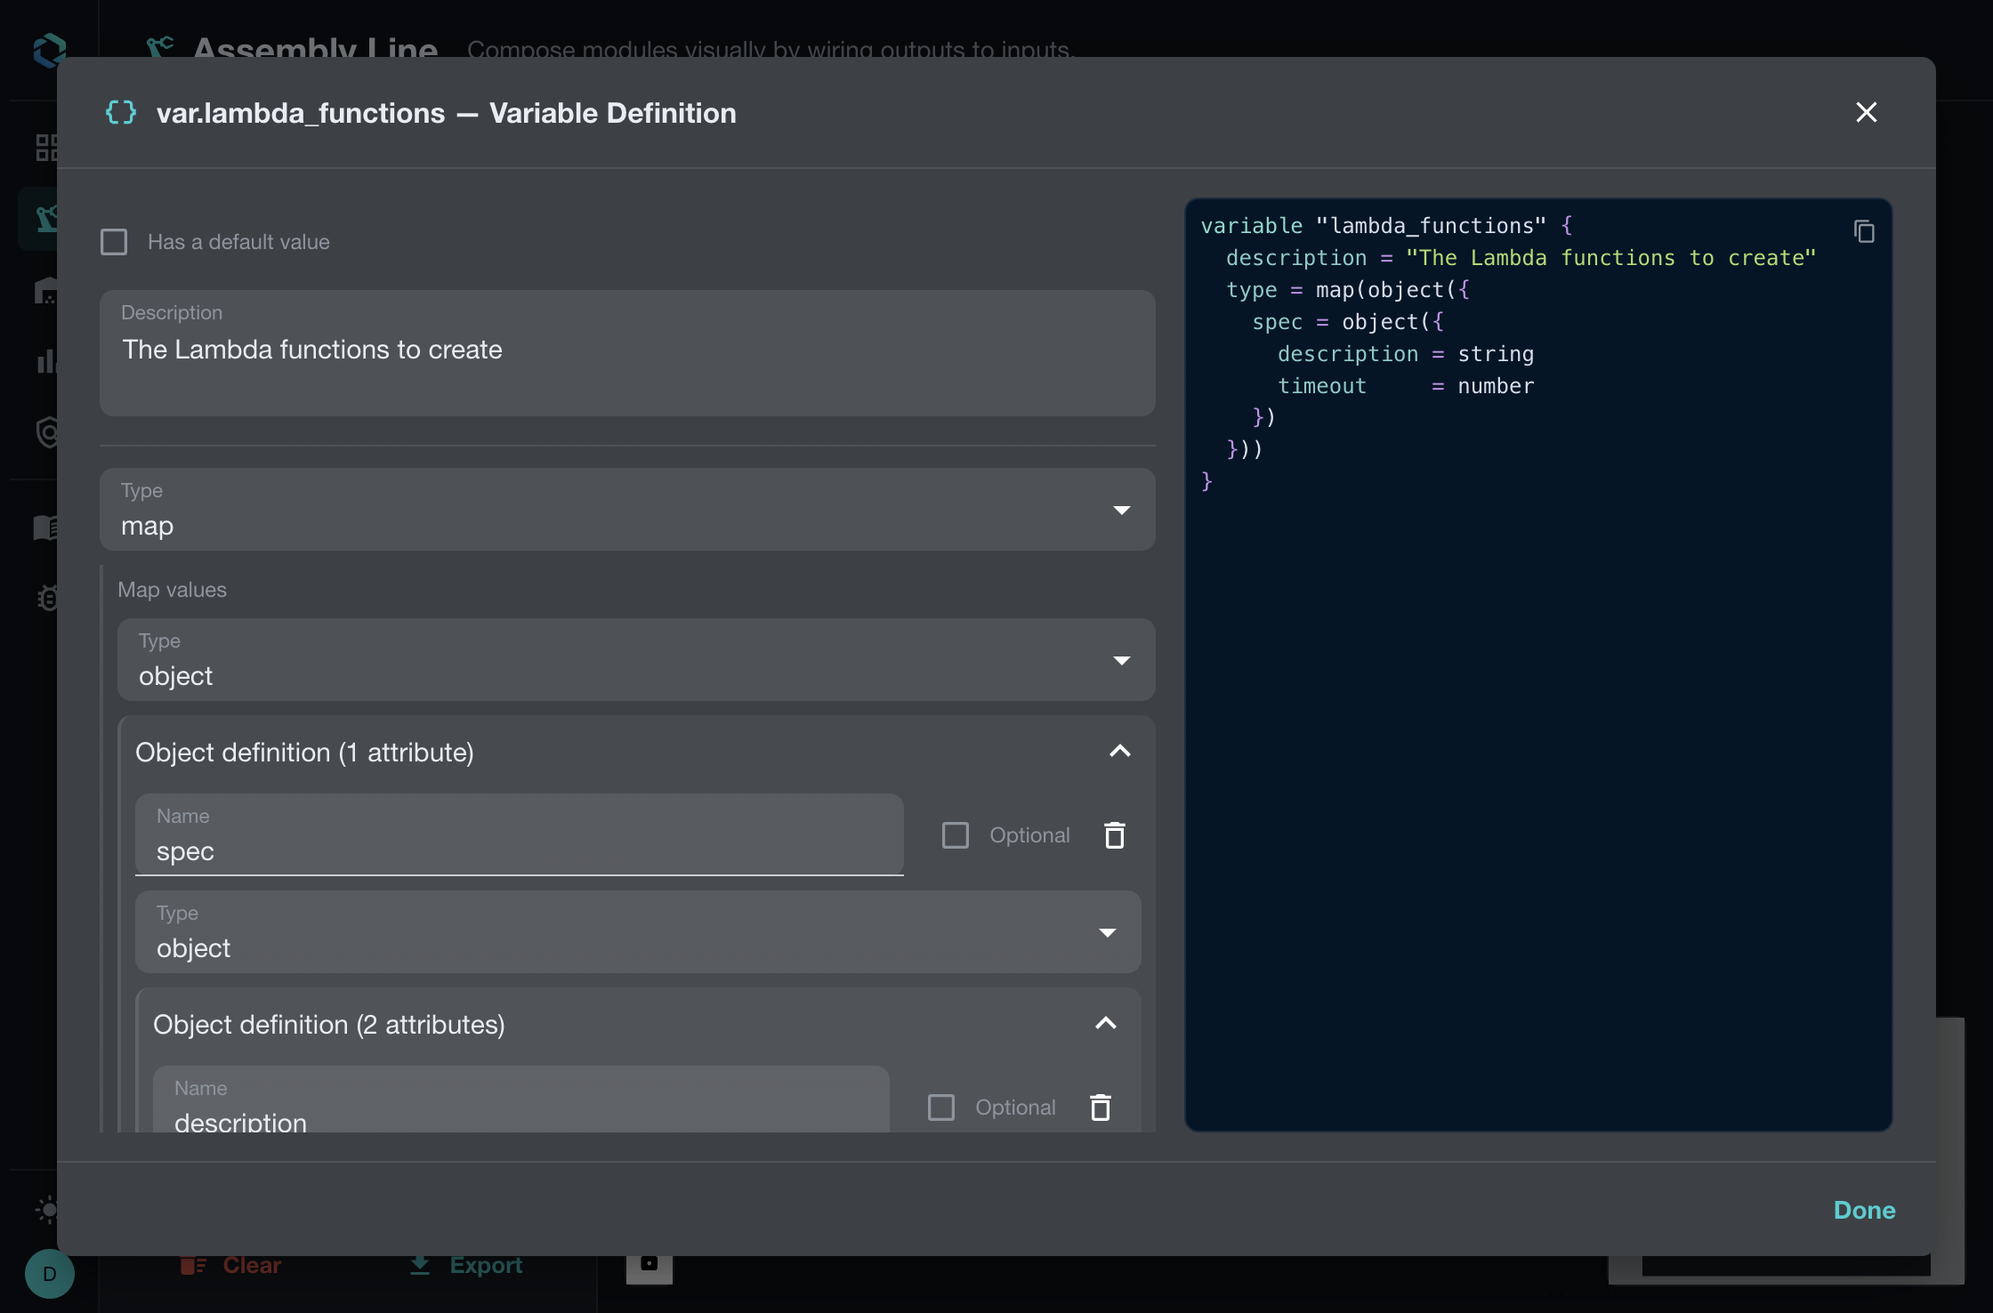
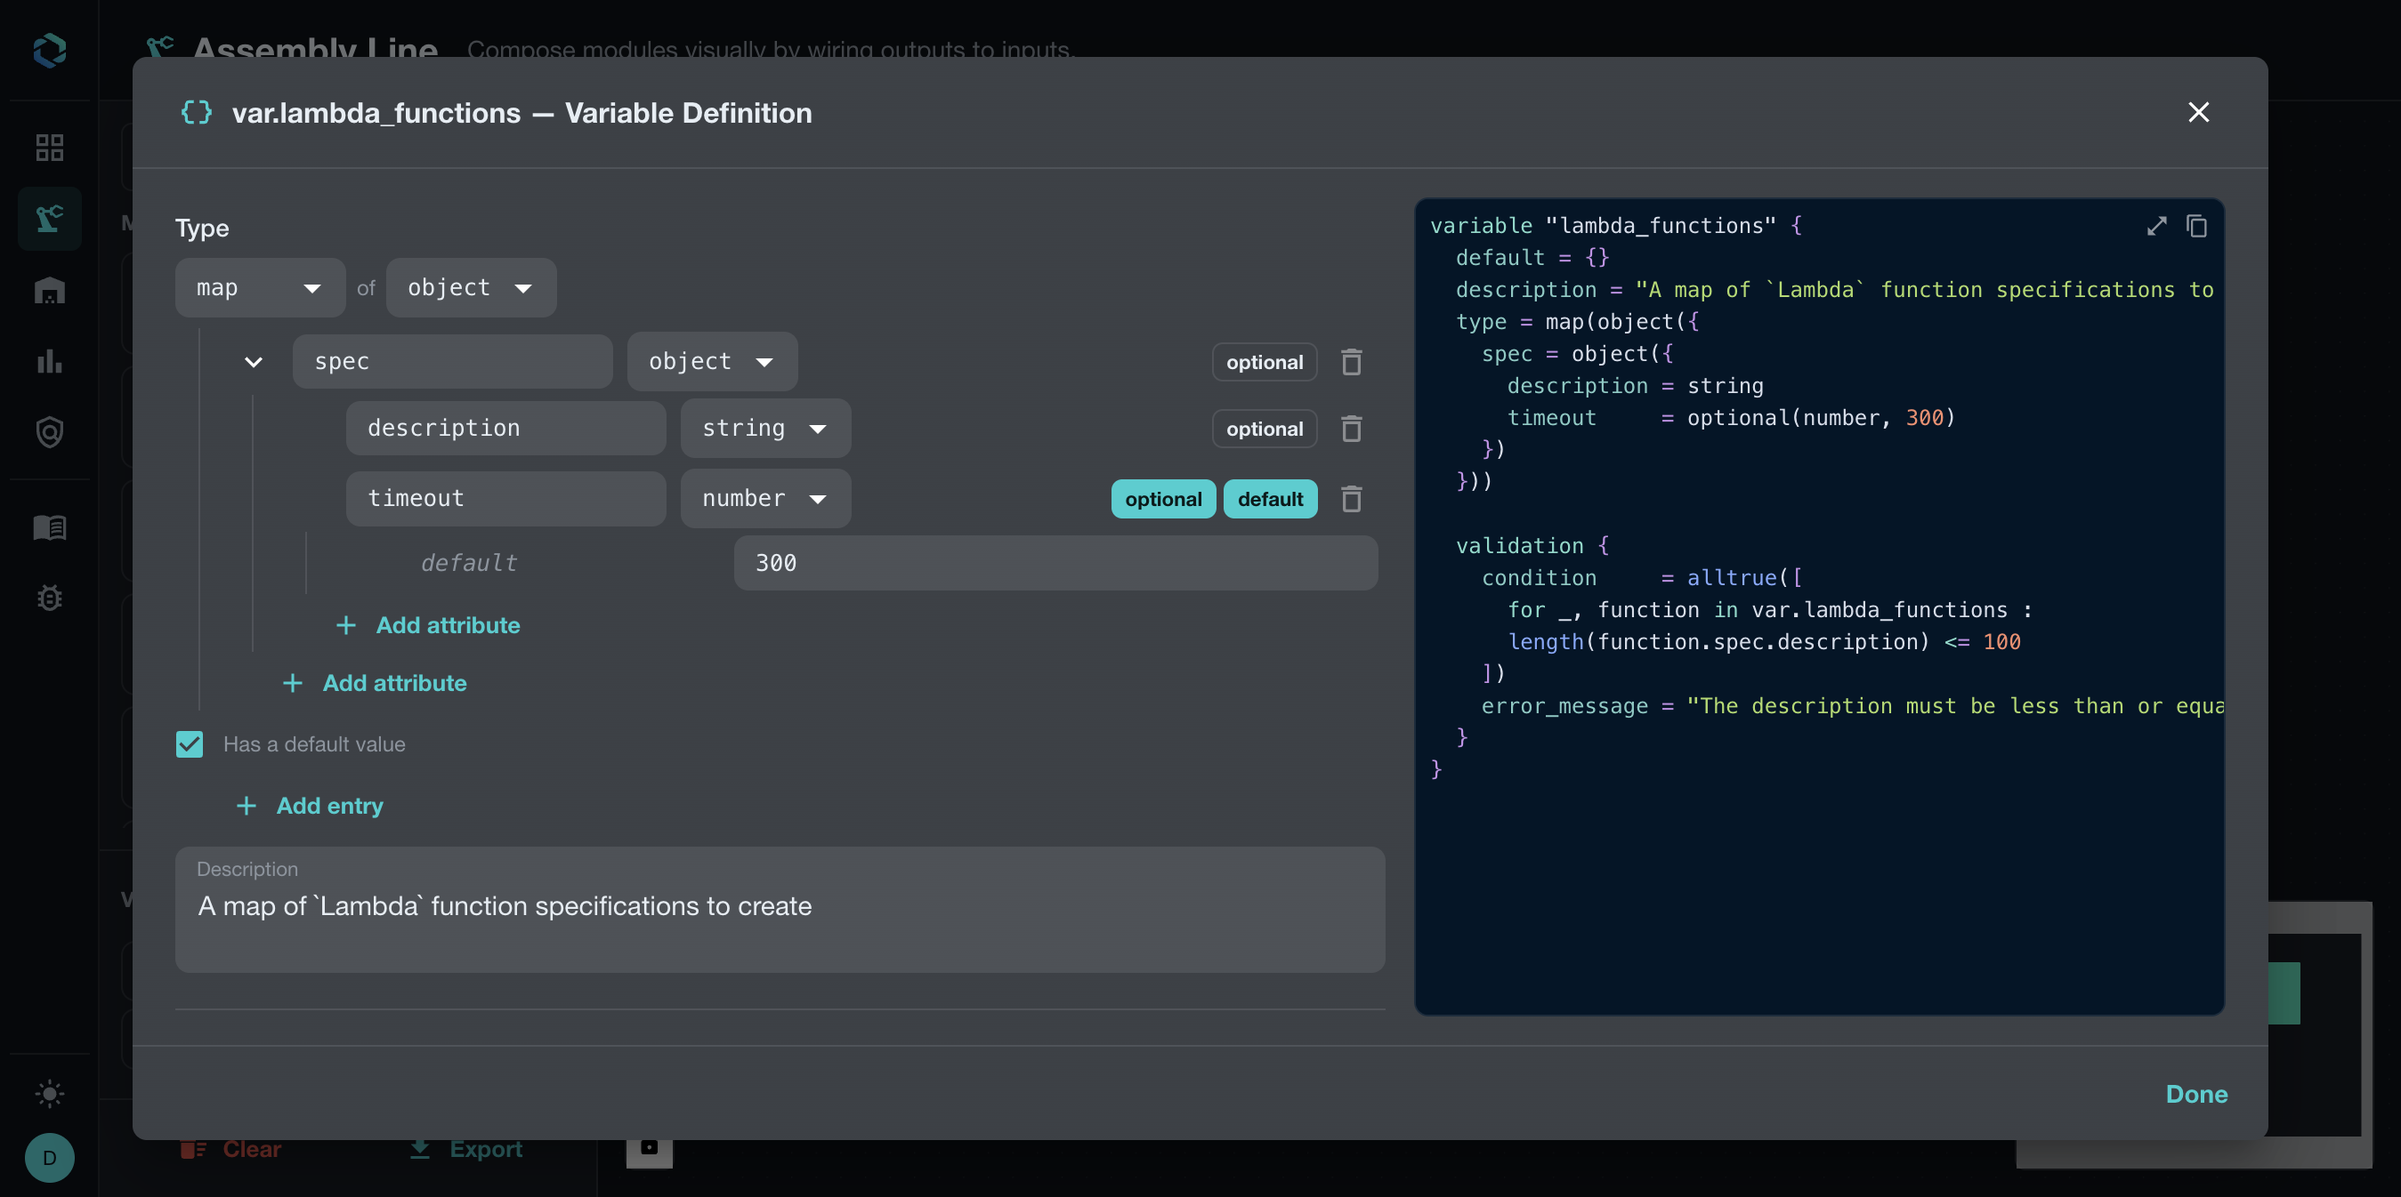
docs: document Assembly Line UI workflows

diff --git a/docs/guides/assembly-line.md b/docs/guides/assembly-line.md
@@ -40,11 +40,11 @@ Building a canvas node requires the underlying module or provider version to alr
 ## Define Complex Variables
 
 Variables are first-class canvas nodes. Open **Type** on a variable to choose a
-primitive, collection, tuple, or object type. For nested objects, add attributes
-and mark them optional as needed. Assembly Line shows the equivalent OpenTofu
-declaration as you build it.
+primitive, collection, tuple, or object type. Add nested object attributes and
+set optional or default values in the type editor. Its syntax-highlighted HCL
+preview shows the equivalent OpenTofu declaration as you build the type.
 
-![Assembly Line variable definition for var.lambda_functions showing a map of objects and generated OpenTofu](../img/assembly-line-variable-current.png)
+![Assembly Line variable editor showing nested map and object types beside the generated HCL preview](../img/assembly-line-variable-current.png)
 
 This example defines a map whose values contain a nested `spec` object with
 `description` and `timeout` attributes. That shape is useful for `for_each`
@@ -54,34 +54,59 @@ instance's configuration.
 ### Validate Variable Values
 
 Add one or more validations to reject invalid input before the generated root
-module is used. Each validation has two parts:
+module is used. Enter each condition as an HCL expression; syntax highlighting
+distinguishes functions, variables, and nested attributes while you edit. Each
+validation has two parts:
 
 - A condition written as an HCL expression, such as `length(var.spec.description) > 100`.
 - An error message that explains how to correct the value.
 
-The condition can reference the variable and its nested attributes. Assembly
-Line includes the validation in the generated OpenTofu declaration, so the
-constraint travels with the exported `variables.tf` file.
+The condition can reference the variable and its nested attributes. The HCL
+preview renders the validation block in the generated OpenTofu declaration, so
+the constraint travels with the exported `variables.tf` file.
 
-![Assembly Line variable validation condition and error message](../img/assembly-line-variable-validations.png)
+![Assembly Line validation editor with a syntax-highlighted condition and error message](../img/assembly-line-variable-validations.png)
 
-![Generated OpenTofu validation block for var.lambda_functions](../img/assembly-line-variable-generated-code.png)
+![Expanded HCL preview for var.lambda_functions showing its nested type and validation block](../img/assembly-line-variable-generated-code.png)
 
 ## Configure Module Inputs
 
-Select **Inputs** on a module node to open its typed input form. The form shows
-required inputs, accepted types, current values, and nested collection or object
-fields. Use the search box and pagination controls when a module exposes many
-inputs.
+Select **Inputs** on a module node to open its typed input form. Compact rows
+show each input's required or optional status, accepted type, and value
+controls. Collection entries are grouped under their input, and the generated
+module HCL remains visible beside the form. Use the search box and pagination
+controls when a module exposes many inputs.
 
-![Assembly Line module input form showing required values, each.key selectors, and module output references](../img/assembly-line-module-inputs-current.png)
+![Compact Assembly Line module input form with typed fields and a generated HCL preview](../img/assembly-line-module-inputs-current.png)
+
+Enter literal values or HCL expressions in the value fields. Expressions are
+syntax highlighted. When a field contains a supported OpenTofu function, the
+editor displays a short function description and a link to the OpenTofu
+documentation beneath the field.
+
+![Assembly Line HCL expression field showing the replace function hint and OpenTofu documentation link](../img/assembly-line-hcl-expression-functions.png)
 
 Values can come from several places:
 
 - A literal value entered in the form.
-- A root variable such as `var.aws_account_id`.
-- A module output such as `module.ecr.repo_arn`.
-- A repeated value such as `each.key` or `each.value.name`.
+- A root variable such as `var.account_id`.
+- A module output such as `module.ecr.repo_url`.
+- A repeated value such as `each.key` or `each.value.spec.description`.
+
+![The Use input menu lists root variables and module outputs available to a module input](../img/assembly-line-input-value-sources.png)
+
+Enter literal values directly in an input field. To reference a root variable or
+module output, choose **Use input** and select a source from the menu. When a
+source is repeated or contains a collection, the form provides instance
+selectors and key or index controls.
+
+![Module inputs showing a literal value, repeated instance selectors, and selected module outputs](../img/assembly-line-input-repeated-values.png)
+
+Repeated modules can also use `each.key` and `each.value` in HCL expression
+fields. For example, this description input reads a nested value from the
+current `for_each` object:
+
+![Module description input using the each.value.spec.description expression](../img/assembly-line-input-each-value.png)
 
 For a variable map or collection reference, choose **One instance** and enter
 the index or key expression to select one entry. When the selected entry is an
@@ -96,6 +121,10 @@ Leave the descendant selection at **Whole value** to reference the complete
 entry. Choosing **All instances** clears the descendant selection and passes
 the full collection. Type compatibility checks use the selected entry or
 projected property type.
+
+![One instance of var.lambda_functions selected with each.key and the descendant set to Whole value](../img/assembly-line-variable-whole-value.png)
+
+![All instances selected for var.lambda_functions with no descendant selector](../img/assembly-line-variable-all-instances.png)
 
 The form keeps the expression visible on the canvas, so you can review how
 each module is connected without opening every field. Defaults owned by the
@@ -177,11 +206,14 @@ A module's provider selector lists only provider nodes whose upstream identity m
 Multiple configurations of one provider share one `required_providers` entry. Give additional configurations an alias, then bind each module-local provider name to the appropriate root configuration.
 
 Select **Configuration** on a provider node to configure provider arguments from
-the extracted schema. Optional attributes are clearly marked, and nested blocks
-such as `assume_role` can be added only when needed. The provider form supports
-the same typed expression references as module inputs.
+the extracted schema. The paginated form marks optional attributes and shows
+complex attribute types, such as `map(string)`, alongside their value controls.
+Add or remove nested blocks such as `assume_role` and configure their fields
+inline. A provider-specific HCL preview shows the provider configuration as it
+is assembled. Provider values support the same typed expression references as
+module inputs.
 
-![Assembly Line provider configuration form showing optional attributes and nested blocks](../img/assembly-line-provider-configuration.png)
+![Assembly Line provider configuration form showing nested blocks, complex attribute types, and its HCL preview](../img/assembly-line-provider-configuration.png)
 
 Provider configuration belongs on the root provider node. Modules then select
 the matching provider configuration through their **Providers** panel, keeping

diff --git a/.github/skills/ui-screenshot-documentation/SKILL.md b/.github/skills/ui-screenshot-documentation/SKILL.md
@@ -1,0 +1,43 @@
+---
+name: ui-screenshot-documentation
+description: "Use when capturing, retaking, cropping, or documenting screenshots of any OpenDepot UI; updating documentation with UI images; or reviewing UI screenshots for focus, accuracy, and readability. Triggers: 'take a screenshot', 'capture the UI', 'retake this screenshot', 'document this screen', 'update the docs screenshots', 'replace a UI image'."
+argument-hint: "UI screen or feature to capture and document"
+---
+
+# UI Screenshot Documentation
+
+Use this skill for UI screenshot and documentation work anywhere in OpenDepot. It is not tied to a particular feature, route, or service. Discover the relevant screen, documentation location, and existing asset conventions for each task.
+
+## Before capturing
+
+- Identify the specific UI detail each requested image should explain. Review nearby documentation and existing screenshots so the capture fits the guide and avoids unnecessary repetition.
+- For every user-visible feature or workflow described in prose that has functional UI controls, include a nearby screenshot showing the relevant control and, where applicable, a representative selected or configured result. When prose lists value sources, modes, or other alternatives, make sure the screenshot shows the corresponding UI choices; split it into focused captures if needed for legibility. Do not leave actionable UI behavior as prose-only instructions when the interface can demonstrate it. Not every factual sentence needs a screenshot, and details with no meaningful visual representation do not need one.
+- Reuse the user's already-authenticated shared browser page when available. Follow the user's specified URL and session requirements. Never assume `localhost:3000` is the correct target or switch to a different host when the user has specified one.
+- Preserve the current application state. Prefer existing data. If temporary UI state is necessary, change only what the capture requires, record what was changed, and restore it afterward without reverting unrelated user changes.
+- Use the real application UI as the source of truth. Expand previews, open panels, or reveal controls through the UI when the requested detail depends on them.
+
+## Capture and composition
+
+- Make each screenshot about one reader-facing point. Focus on the relevant control, field, preview, or message; do not repeat most of an earlier screenshot to show a minor difference.
+- Keep the subject complete and readable at its final documentation size. Include enough surrounding UI to orient the reader, with natural breathing room around the subject. Do not clip labels, code, validation messages, or relevant controls.
+- Use the browser's actual zoom and scroll position to compose the capture. If the subject needs more space, zoom out and recapture rather than manufacturing margins.
+- Use only genuine pixels from the application. Cropping a screenshot is acceptable; adding borders, blank canvases, artificial padding, overlays, retouched UI, or composites is not. Do not stretch or redraw interface content to improve the framing.
+- Save the screenshot to the appropriate repository documentation asset directory, following nearby filename conventions. A browser tool's attached preview alone is not a saved documentation asset.
+- Inspect the saved image itself after capture. Confirm that it shows the intended state, is legible, has natural spacing, and contains no accidental clipping, scrollbars, overlays, or unrelated repeated content. If it is wrong, recapture from the browser instead of trying to repair it with invented pixels.
+- Prefer capturing a stable UI element directly when supported. If the capture is clipped by a scrollable ancestor, adjust the real UI scroll position and capture again. Avoid repeated speculative viewport or coordinate changes; verify each capture before proceeding.
+
+## Documentation
+
+- Update the relevant guide or page and use a relative image link that resolves from that document. Add concise alt text describing the visible content and its purpose.
+- Describe the UI directly and in present tense. Avoid wording such as “we now” or “this is new” unless the user specifically requests release or change-history language.
+- Keep the documentation focused on the feature the image shows; do not add unrelated product claims or duplicate surrounding guidance.
+
+## Verify and restore
+
+- Verify every saved image visually and confirm the referenced path exists.
+- Compare the prose against the screenshots before finishing. For each described feature or list of options with corresponding UI controls, confirm that a nearby image shows those controls and, where useful, a representative configured result; a general overview image alone is not sufficient.
+- Run the smallest relevant documentation check, such as the configured documentation-site build, and run `git diff --check` when editing repository files.
+- Restore browser dialogs, scroll position, zoom, and any temporary application state when possible. If part of the original state cannot be restored, report exactly what remains changed.
+- Do not commit changes unless asked.
+
+When reporting completion, summarize the documentation and image changes, the validation performed, and any browser state that could not be restored.

diff --git a/.github/agents/documentation.agent.md b/.github/agents/documentation.agent.md
@@ -1,7 +1,7 @@
 ---
 description: "Use when: updating documentation after a feature is implemented, documenting new CRD fields, writing guides for new behaviors, updating the API reference, recording configuration changes, or any documentation task in the OpenDepot project. Invoked by the Code Review agent once implementation is confirmed complete, or directly by the user."
 name: "OpenDepot Documentation"
-tools: [vscode/memory, execute, read, edit, search, browser, github/get_me, github/get_team_members, github/get_teams, github/search_repositories, github/search_users, github/add_comment_to_pending_review, github/add_issue_comment, github/add_reply_to_pull_request_comment, github/assign_copilot_to_issue, github/create_branch, github/create_or_update_file, github/create_pull_request, github/create_pull_request_with_copilot, github/create_repository, github/delete_file, github/fork_repository, github/get_commit, github/get_copilot_job_status, github/get_file_contents, github/get_label, github/get_latest_release, github/get_release_by_tag, github/get_tag, github/issue_read, github/issue_write, github/list_branches, github/list_commits, github/list_issue_types, github/list_issues, github/list_pull_requests, github/list_releases, github/list_tags, github/merge_pull_request, github/pull_request_read, github/pull_request_review_write, github/push_files, github/request_copilot_review, github/run_secret_scanning, github/search_code, github/search_issues, github/search_pull_requests, github/sub_issue_write, github/update_pull_request, github/update_pull_request_branch, github/list_issue_fields, github/list_repository_collaborators, github/search_commits, github/add_comment_to_pending_review, github/add_issue_comment, github/add_reply_to_pull_request_comment, github/assign_copilot_to_issue, github/create_branch, github/create_or_update_file, github/create_pull_request, github/create_pull_request_with_copilot, github/create_repository, github/delete_file, github/fork_repository, github/get_commit, github/get_copilot_job_status, github/get_file_contents, github/get_label, github/get_latest_release, github/get_me, github/get_release_by_tag, github/get_tag, github/get_team_members, github/get_teams, github/issue_read, github/issue_write, github/list_branches, github/list_commits, github/list_issue_fields, github/list_issue_types, github/list_issues, github/list_pull_requests, github/list_releases, github/list_repository_collaborators, github/list_tags, github/merge_pull_request, github/pull_request_read, github/pull_request_review_write, github/push_files, github/request_copilot_review, github/run_secret_scanning, github/search_code, github/search_commits, github/search_issues, github/search_pull_requests, github/search_repositories, github/search_users, github/sub_issue_write, github/update_pull_request, github/update_pull_request_branch, todo]
+tools: [vscode/memory, execute, read, edit, search, browser, browser/dragElement, browser/navigatePage, browser/runPlaywrightCode, browser/handleDialog, browser/hoverElement, browser/openBrowserPage, browser/readPage, browser/screenshotPage, browser/typeInPage]
 argument-hint: "Describe the feature or changes that need documentation"
 model: GPT-5.6 Luna (copilot)
 ---
@@ -13,6 +13,10 @@ You are a technical writer with deep knowledge of the OpenDepot codebase. You wr
 For any branding-related documentation or visual asset work, read `.github/skills/opendepot-branding/SKILL.md` before editing. It is the canonical transcription of the OpenDepot Brand Guidelines 2026 and the source of truth for colors, typography, logo usage, clear space, mockups, stationery, and visual treatment.
 
 At a glance, use black `#000000`, blue `#0350C7`, mint `#03DEB8`, and white `#FFFFFF`, with `#048FC3` as the approved digital gradient accent; use Aspekta for primary text and Inter for quotes and supporting text; and never distort, recolor, crop, rearrange, outline, or crowd an approved logo asset. Do not invent brand colors, logo variants, typography rules, or patterns when the skill does not specify them.
+
+## UI Screenshot Documentation
+
+For any UI screenshot capture, retake, crop, or documentation task anywhere in the OpenDepot project, read and follow `.github/skills/ui-screenshot-documentation/SKILL.md`. This instruction applies across the whole project and is not limited to Assembly Line-specific work.
 
 **CRITICAL** Always update `overrides/main.html` with the latest version of the OpenDepot chart after any Helm chart changes, so the docs site reflects the current version. The format is:
 ```html
